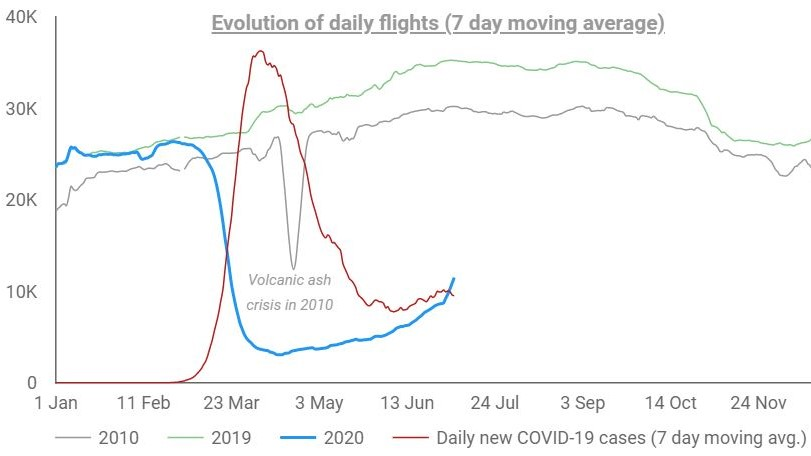
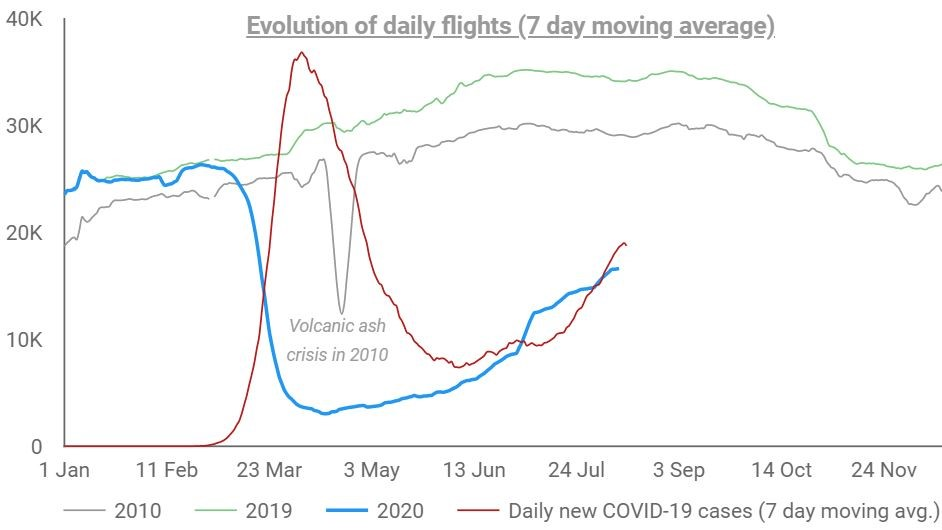
Final edits for August 2020 release

diff --git a/content/study/covid19_tbp.html b/content/study/covid19_tbp.html
@@ -1,0 +1,56 @@
+---
+title: "COVID-19 - The big picture so far...."
+date: "2020-08-15"
+excerpt: "COVID-19 - The big picture so far...."
+bibliography: ["../../static/bib/aviation.bib"]
+link-citations: true
+dwnld_i: <i class="fa pru fa-download"></i>
+---
+
+
+
+<style type="text/css">
+.img-responsive {
+    margin: 0 auto;
+    max-width: 75%
+}
+
+.resp-container {
+    position: relative;
+    overflow: hidden;
+    padding-top: 60.0%;
+}
+
+.resp-iframe {
+    position: absolute;
+    top: 0;
+    left: 0;
+    width: 100%;
+    height: 150%;
+    border: 0;
+}
+</style>
+<small>
+<p style="color:#808080">
+Published: 15 August 2020
+</p>
+<p></small></p>
+<div class="resp-container">
+<iframe class="resp-iframe" src="https://datastudio.google.com/embed/reporting/5765cfaa-85a2-45e3-9890-8000c17cbe09/page/nTTw" frameborder="0" style="border:0" allowfullscreen>
+</iframe>
+</div>
+<div id="the-big-picture" class="section level4">
+<h4>The Big Picture</h4>
+<p><strong>Traffic:</strong> Despite the continuous increase since mid-April 2020, there were a total of 3.47 million fewer flights in the EUROCONTROL Member States compared to the first seven months in 2019 (-54.5% vs. 2019). Focusing on the period May to July, traffic in 2020 was even -74.7% below 2019 levels. <br>
+<a href="/covid/covid_traffic/">More detailed information on the COVID-19 impact by State, Air Navigation Service Provider, ACC or airport</a></p>
+<p><strong>Charges:</strong> As a consequence of the unprecedented reduction of traffic, revenues from en-route charges between January and July 2020 were -57.0% lower than planned which corresponds to a 2.67 billion Euro loss in the first seven months of 2020. <br>
+<a href="/covid/covid_ert_rev/">Explore revenues by Charging Zone</a></p>
+<p><strong>Delays:</strong> As can be expected, ATFM en-route delays dropped to zero following the dramatic reduction in traffic in mid-April. Compared to the unacceptably high delays observed in 2019, en-route delays decreased by 84.6% which corresponds to 8.77 million minutes less delay. <br>
+<a href="/capacity/">See more information on ATFM delays by entity and delays cause</a></p>
+</div>
+<div id="road-to-recovery" class="section level4">
+<h4>Road to recovery</h4>
+<p>The rate of recovery is in line with the <a href="https://www.eurocontrol.int/covid19#traffic-scenarios" title="Traffic scenarios">EUROCONTROL “Coordinated Measures” Scenario</a> which envisaged around 38% of the 2019 traffic level by the end of July.</p>
+<p>The latest <a href="https://www.public.nm.eurocontrol.int/PUBPORTAL/gateway/spec/index.html" title="NOP Recovery Plan">European NOP 2020 Recovery Plan</a> expects to reach close to 60% of the 2019 traffic levels on peak days in September. However, this outlook is highly dependent on the evolution of State restrictions.</p>
+<p>See <a href="https://www.eurocontrol.int/publication/eurocontrol-comprehensive-assessment-covid-19s-impact-european-air-traffic" title="EUROCONTROLS comprehensive assessment">EUROCONTROLS latest comprehensive assessment</a> of COVID’s impact on European traffic for frequent situation updates.</p>
+</div>

diff --git a/content/reference/dataset/emissions.html b/content/reference/dataset/emissions.html
@@ -18,7 +18,7 @@ slug: emissions
 </div>
 <div id="data-description" class="section level2">
 <h2>Data description</h2>
-<p>The CO2 emissions were calculated with the EUROCONTROL <a href="https://www.eurocontrol.int/tool/small-emitters-tool" title="small emitters tool">Small Emitters Tool (SET)</a>, which enables to estimate the fuel burn and associated CO2 emissions for an entire flight considering the characteristics of the air traffic covered by the EU emissions trading scheme (EU ETS). Hence, the results reflect total CO2 emissions from controlled flights rather than ANSP/ATM performance.</p>
+<p>The CO2 emissions were calculated with the EUROCONTROL <a href="https://www.eurocontrol.int/tool/small-emitters-tool" title="small emitters tool">Small Emitters Tool (SET)</a>, which enables to estimate the fuel burn and associated CO2 emissions for an entire flight. Hence, the results reflect total CO2 emissions from controlled flights rather than ANSP/ATM performance.</p>
 <p>The <strong>total CO2 emissions for each State</strong> were calculated based on <strong>departing <a href="/acronym/ifr/">IFR</a> flights</strong> billed by the <a href="https://www.eurocontrol.int/crco" title="EUROCONTROL Route Charges Office">EUROCONTROL Route Charges Office</a>, <strong>aircraft type</strong> and <strong>actual flown distance</strong> (full trajectory from origin to destination).</p>
 <p>For instance, the total CO2 emissions for the full trajectory of a flight from Brussels to New York would be included in the results for Belgium.
 A flight from New York to Brussels would however NOT be included in the results for Belgium.</p>

diff --git a/content/covid/covid_ert_rev.html b/content/covid/covid_ert_rev.html
@@ -49,7 +49,7 @@ See also our Economics section!
 </div>
 <small>Please note that the analysis may take a few moments to load. The dashboard is best viewed in Chrome or Firefox.<br>
 <p style="color:#c00000">
-Last data update: 15 July 2020
+Last data update: 14 Aug 2020
 </p>
 </small>
 <div class="resp-container">
@@ -59,6 +59,6 @@ Last data update: 15 July 2020
 <div class="footnotes">
 <hr />
 <ol>
-<li id="fn1"><p>Note that in the Route Charges system, two en-route charging zones include more than one State (Belgium-Luxembourg and Serbia-Montenegro). Similarly, there are two charging zones for Spain (Spain Continental and Spain Canarias) and Portugal (Portugal Continental, subject to SES Regulations, and Portugal Santa Maria, not subject to SES Regulations).<a href="#fnref1" class="footnote-back">↩</a></p></li>
+<li id="fn1"><p>Note that in the Route Charges system, two en-route charging zones include more than one State (Belgium-Luxembourg and Serbia-Montenegro). Similarly, there are two charging zones for Spain (Spain Continental and Spain Canarias) and Portugal (Portugal Continental, subject to SES Regulations, and Portugal Santa Maria, not subject to SES Regulations).<a href="#fnref1" class="footnote-back">↩</a></p></li>
 </ol>
 </div>

diff --git a/content/covid/covid_traffic.html b/content/covid/covid_traffic.html
@@ -33,7 +33,7 @@ date: '2020-04-16'
 <p>The analysis shows the evolution of the flights (moving 7 day average) in the <a href="/definition/eurocontrol-area/">EUROCONTROL Area</a> for the years 2010, 2019 and 2020.</p>
 </blockquote>
 <p>Although the dimension of the COVID-19 crisis is of a completely different order of magnitude, the year 2010 was included as a reference because of the volcanic ash crisis from 14-20 April which brought European aviation close to a standstill.</p>
-<p>The analysis suggests that the turning point was reached in mid April 2020. Since then traffic very slowly started to grow again. <br></p>
+<p>There has been a steady increase of flights since mid-April with a more pronounced increase towards the end of June 2020. In July 2020, traffic continued to increase but still remained 57% below the traffic level at the end of July 2019. <br></p>
 <p><a href="https://www.eurocontrol.int/Economics/DailyTrafficVariation-States.html" class="btn btn-danger" role="button"><i class='fas fa-xs fa-exclamation-triangle'></i> For daily traffic statistics by State, Area Control Center (ACC), Airport, and Aircraft Operator level please visit our interactive dashboard!</a></p>
 </div>
 <div class="col-sm-6">

diff --git a/content/dashboard/stakeholder/state/index.html b/content/dashboard/stakeholder/state/index.html
@@ -23,6 +23,8 @@ layout: default
  <div>The analysis may take a few moments to load.</div>
  
  <div class="resp-container">
-     <iframe class="resp-iframe" src="https://datastudio.google.com/embed/reporting/1qPft5lstays5k6pJfZ2AREkx_WXBkqWs/page/bmPv" frameborder="0" style="border:0" allowfullscreen>
+     <iframe class="resp-iframe" src="https://datastudio.google.com/embed/reporting/6fa1995e-8685-4ff6-979d-23147af7f9cd/page/h2HaB" frameborder="0" style="border:0" allowfullscreen>
      </iframe>
    </div>
+
+   

diff --git a/content/_index.html b/content/_index.html
@@ -74,7 +74,7 @@ Airport capacity imbalance
 </h5>
 </a><small>
 <p class="card-text">
-How does runway configuration affect performance? See the new Airport Capacity Imbalance study commissioned by the PRC
+How does runway configuration affect performance? See the new Airport Capacity Imbalance study commissioned by the PRC.
 </p>
 </small>
 </div>

diff --git a/content/data.md b/content/data.md
@@ -81,7 +81,7 @@ attn_i: <i class="fa pru fa-exclamation-triangle"></i>
 | Airport arrival ATFM delays<br><em> [with post ops adjustments][PostOps]</em><br><small> Daily IFR arrivals and airport arrival [ATFM delay][ATFMdelay] by airport and delay category</small> | {{< getdata "dwnld" "apt_dly_post_beg" >}} - {{< getdata "dwnld" "apt_dly_post_end" >}} | [{{< dwnld_i >}}][APT-DLY-postxlsx] |                                | [{{< info_i >}}][APT-DLYmeta] | [KPI 12][ganp12]                   |
 | Airport traffic<br><small> Daily IFR arrivals and departures by airport</small>                                                                                                               | {{< getdata "dwnld" "apt_flt_beg" >}} - {{< getdata "dwnld" "apt_flt_end" >}}           | [{{< dwnld_i >}}][APT-FLTxlsx]      |                                | [{{< info_i >}}][APT-FLTmeta] |                                    |
 | Arrival Sequencing and Metering (ASMA) additional time<br><small> Monthly ASMA [additional][ASMAadditional] and [unimpeded][ASMAunimpeded] time</small>                                       | {{< getdata "dwnld" "asma_beg" >}} - {{< getdata "dwnld" "asma_end" >}}                 | [{{< dwnld_i >}}][ASMAxlsx]         |                                | [{{< info_i >}}][ASMAmeta]    | [KPI 08][ganp08]                   |
-| Vertical flight efficiency - Continuous climb and descent operations<br><small> Monthly continuous climb and descent data</small>                                                             | {{< getdata "dwnld" "cdo_beg" >}} - {{< getdata "dwnld" "cdo_end" >}}                   | [{{< dwnld_i >}}][CDOxlsx]          |                                | [{{< info_i >}}][CDOmeta]     | [KPI 17][ganp17], [KPI 19][ganp19] |
+| Vertical flight efficiency - Continuous climb and descent operations<br><small> Monthly continuous climb and descent data</small>                                                             | {{< getdata "dwnld" "cdo_beg" >}} - {{< getdata "dwnld" "cdo_end" >}} <p style="color:#c00000"><small>Jul 20 data delayed</small></p>            | [{{< dwnld_i >}}][CDOxlsx]          |                                | [{{< info_i >}}][CDOmeta]  | [KPI 17][ganp17], [KPI 19][ganp19] |
 | Taxi-out additional time<br><small> Monthly taxi out [additional][TX-OUTadditional] and [unimpeded][TX-OUTunimpeded] time</small>                                                             | {{< getdata "dwnld" "tx_out_beg" >}} - {{< getdata "dwnld" "tx_out_end" >}}             | [{{< dwnld_i >}}][TX-OUTxlsx]       |                                | [{{< info_i >}}][TX-OUTmeta]  | [KPI 02][ganp02]                   |
 | ATC pre-departure delays<br><small> Daily [ATC pre-departure delay][ATCpredepdelay] by airport</small>                                                                                        | {{< getdata "dwnld" "atc_pre_beg" >}} - {{< getdata "dwnld" "atc_pre_end" >}}           | [{{< dwnld_i >}}][ATC-PRExlsx]      |                                | [{{< info_i >}}][ATC-PREmeta] |                                    |
 | ATFM slot adherence<br><small> Daily ATFM slot adherence by airport</small>                                                                                                                   | {{< getdata "dwnld" "slt_adh_beg" >}} - {{< getdata "dwnld" "slt_adh_end" >}}           | [{{< dwnld_i >}}][SLT-ADHxlsx]      |                                | [{{< info_i >}}][SLT-ADHmeta] | [KPI 03][ganp03]                   |
@@ -129,6 +129,7 @@ attn_i: <i class="fa pru fa-exclamation-triangle"></i>
 In fact they use different BADA versions and hence different aircraft characteristics for the same aircraft type; this impacts the value of the
 *Speed Different Interacting Flows* and ultimately the *Traffic Complexity Score*.
 
+<p style="color:#c00000"><small>Work is in progress to provide the 2020 complexity data</small></p>
 
 | Data description                                                                             | Period                                                                                          | {{< excel_i >}}              | {{< csv_i >}} | Info                       | [ICAO GANP][icaoganp] |
 |----------------------------------------------------------------------------------------------|-------------------------------------------------------------------------------------------------|------------------------------|---------------|----------------------------|-----------------------|
